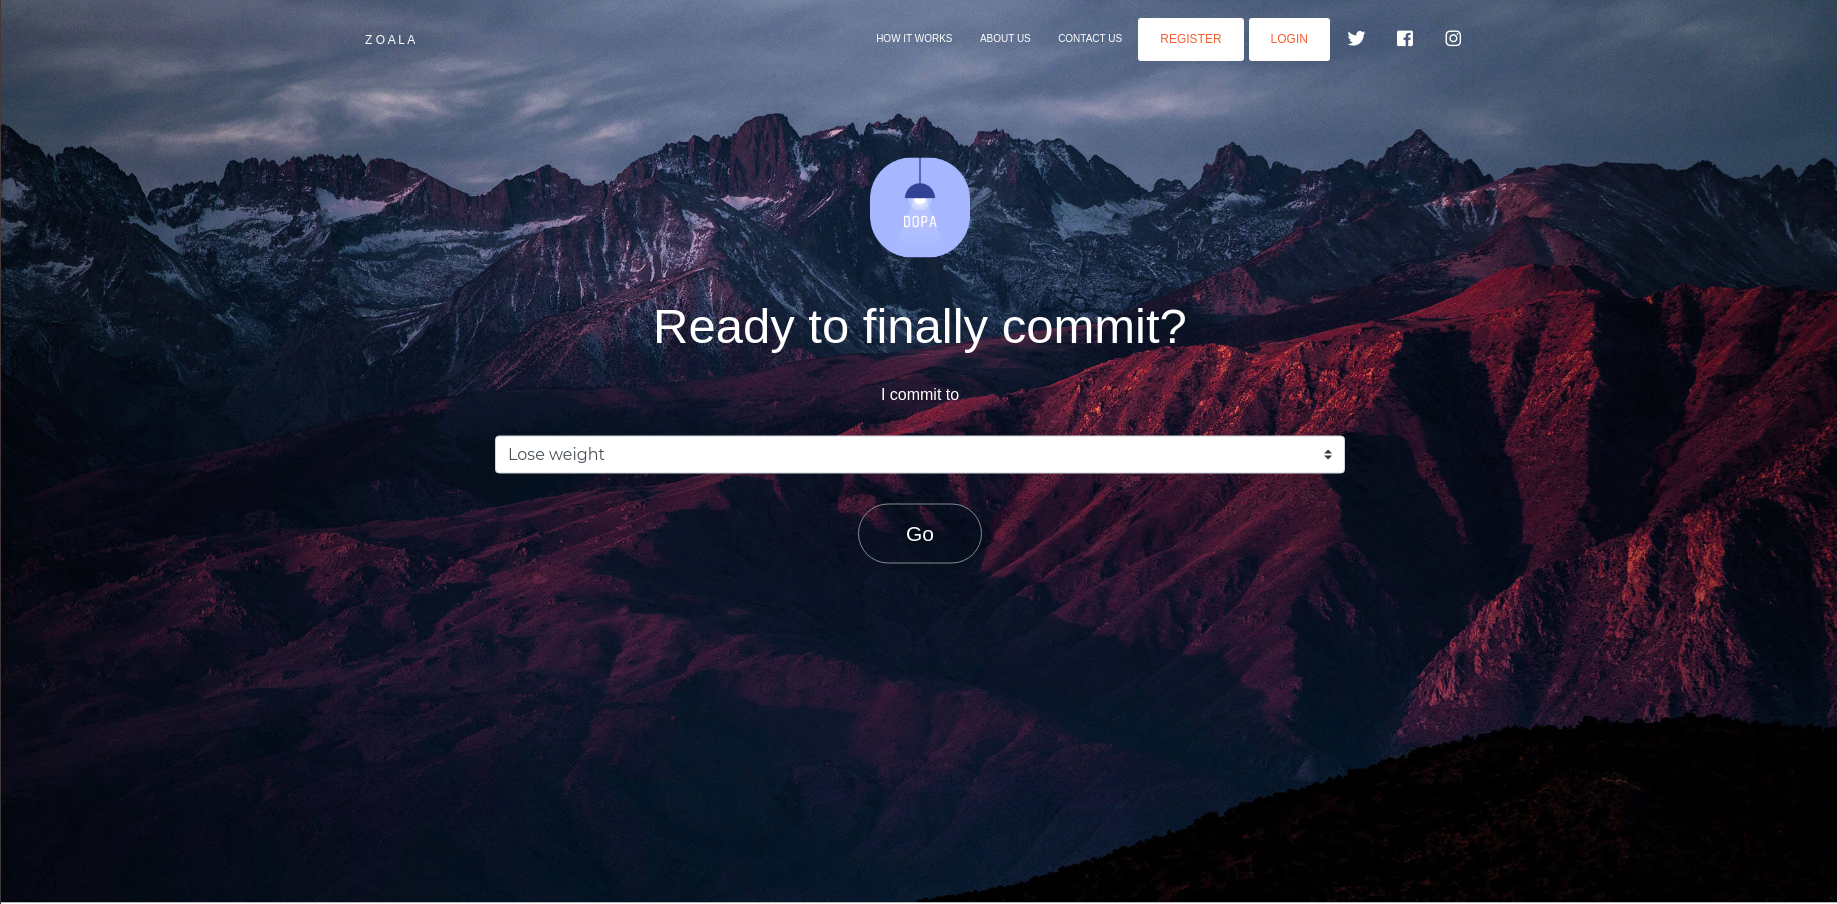
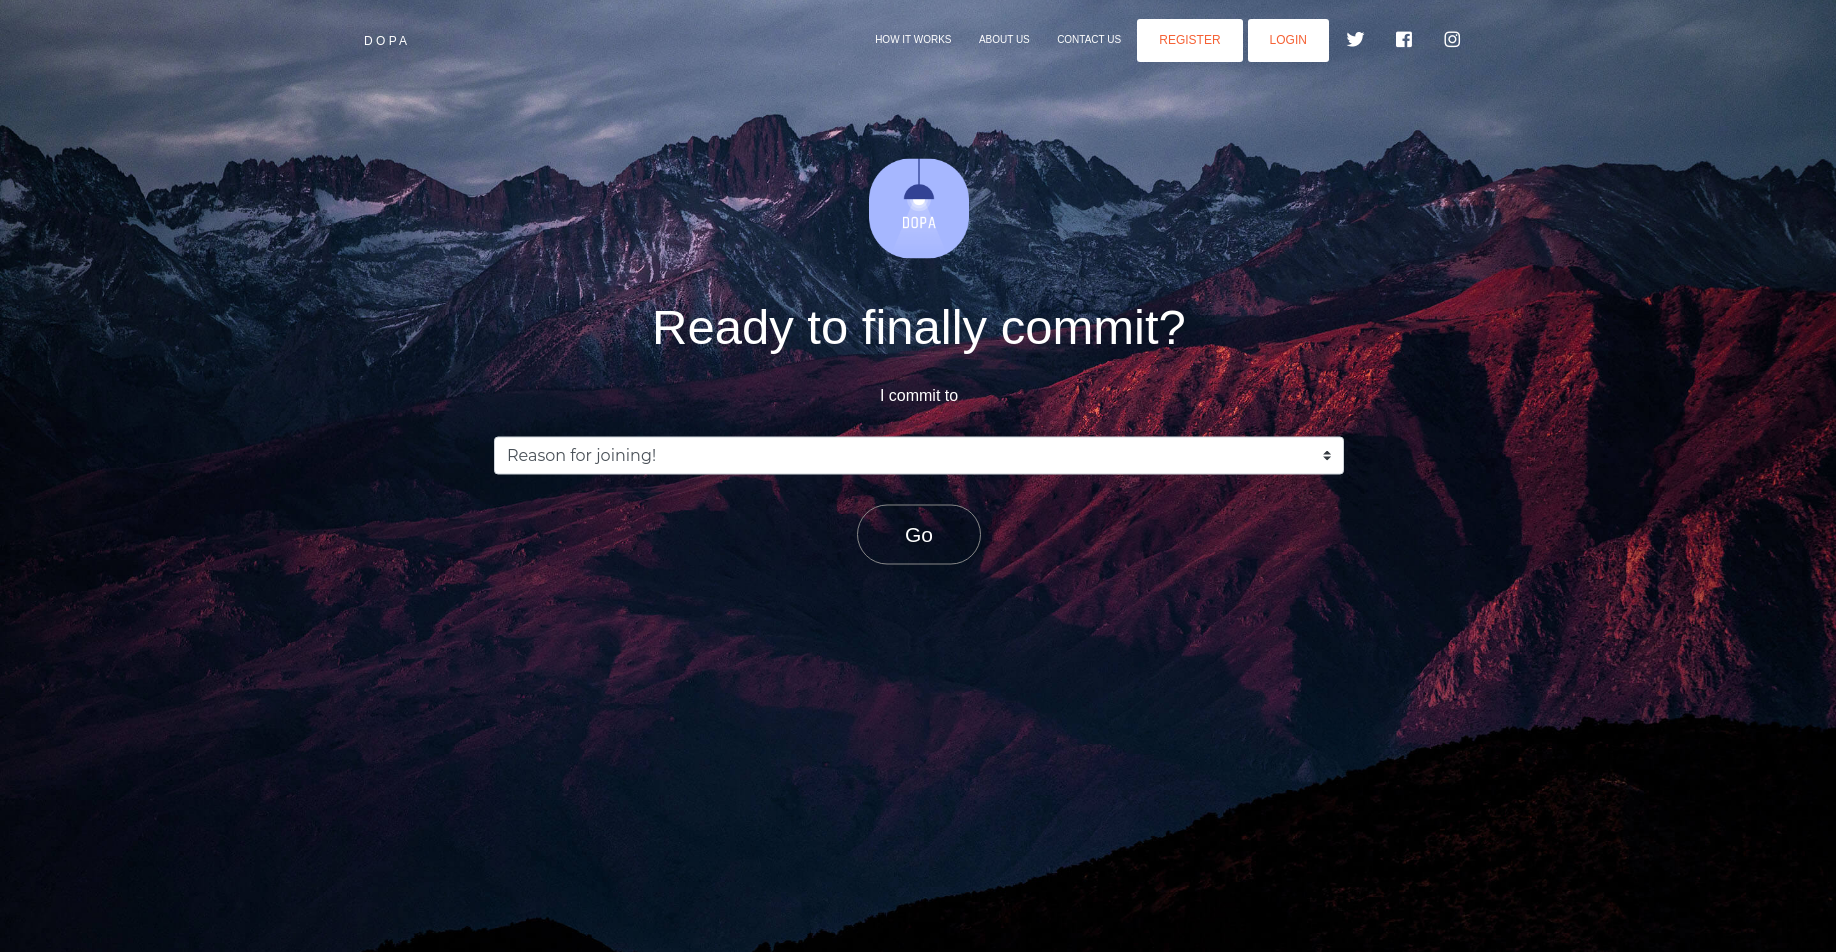
changed demo img of landingpagesectionone

diff --git a/src/layout/MainNavbar.vue b/src/layout/MainNavbar.vue
@@ -8,7 +8,7 @@
   >
     <template slot-scope="{ toggle, isToggled }">
       <router-link v-popover:popover1 class="navbar-brand" to="/">
-        Z O A L A
+        D O P A
       </router-link>
       <el-popover
         ref="popover1"
